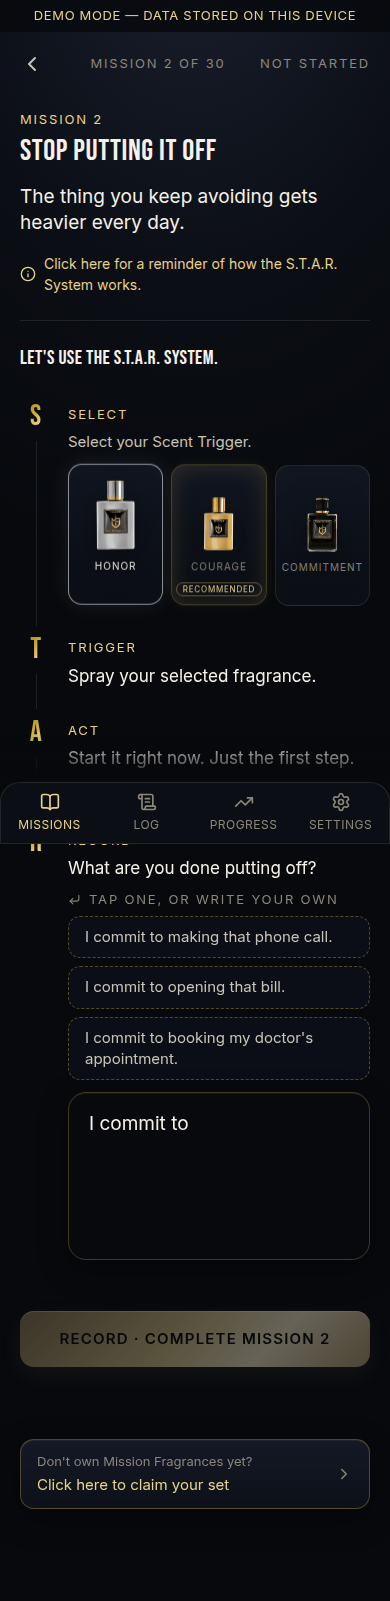
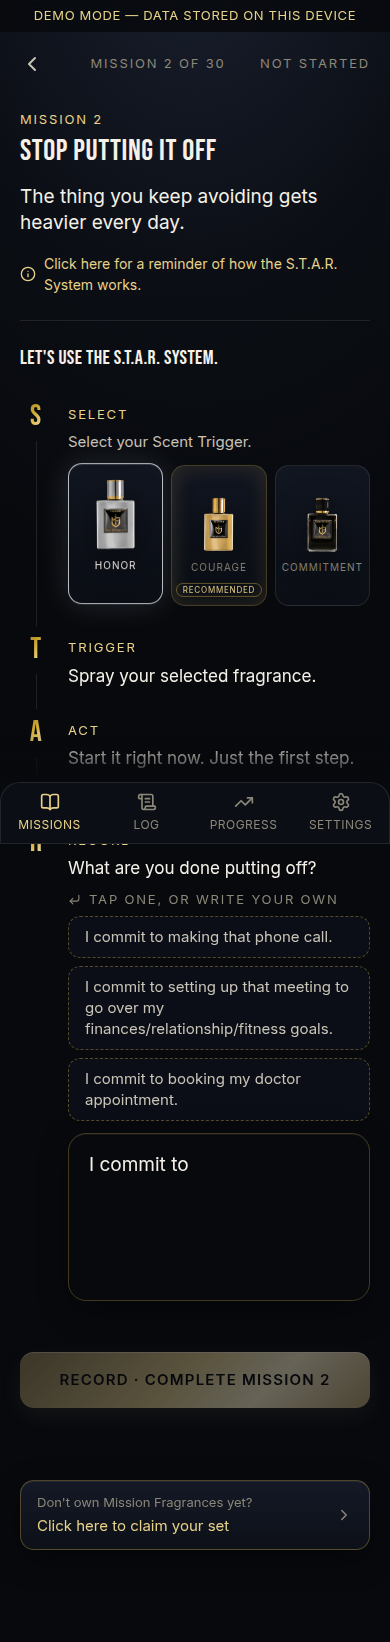
Examples everyone can see himself in; Mission 13 pre-fill plus options
Examples assumed one kind of life: a wife, kids, a living dad, an "our".
They're now written as options he can trim, so every man sees his own
situation in them. "my wife/partner/girlfriend", "my dad/mom", "my
kids/family", "my son/daughter", "my brother/sister/buddy". "my" replaces
"our" wherever a single man could mean it.

Requested edits:
- Mission 2: "doctor appointment", not "doctor's". The bill example is now
  "setting up that meeting to go over my finances/relationship/fitness
  goals".
- Mission 4: wife/partner/girlfriend; "reaching out to thank my old coach";
  mom/sister/aunt.
- Mission 6: "Staying with my dad/mom/uncle/aunt at the hospital."
- Mission 11: wife/partner/girlfriend. Mission 12 and 30: 10:30PM.
- Mission 22: wife/partner/girlfriend.
- Mission 13 opens on the sentence he wrote in onboarding, AND offers
  three options to tap. The options stay up until he edits the sentence.
  (Before, a pre-filled field hid the options.)
- Onboarding: the Trigger step drops "This is how you build the trigger."

The same sweep covered the rest (Missions 3, 7, 15, 17, 18, 20, 21, 24, 26,
28, 29), including Mission 29's action, "send it to one person who'll hold
you to it" instead of "one man".

The writing rules in missions.ts now include inclusivity, and the
walkthrough covers Mission 13's pre-fill and options.

Claude-Session: https://claude.ai/code/session_01WVgj5E7JPb9xgPaaNWkVw6

diff --git a/src/content/missions.ts b/src/content/missions.ts
@@ -33,6 +33,11 @@ import type { Trigger } from "@/lib/data/types";
  * - World actions are commitments: the field opens on "I commit to ". On-
  *   screen actions (finish a sentence, remember something) ask plainly.
  * - Readers are men in their 40s and 50s. 90% don't own a business.
+ * - Everyone should see himself in the examples. Married or not, kids or
+ *   not, parents living or not. Write the relationship as options he can
+ *   trim: "my wife/partner/girlfriend", "my dad/mom", "my kids/family".
+ *   Say "my", not "our", unless only a couple could mean it.
+ *   Times are "10:30PM", not "10:30".
  * - Recommended values rotate. Never the same one twice in a row.
  * - 15–20 cover relationships, health, work, money, home and service; 21
  *   picks one; 22 acts on it; 27 sharpens the promise from 12.
@@ -136,8 +141,8 @@ export const MISSIONS: MissionDef[] = [
     inputPrefix: COMMIT,
     examples: [
       "I commit to making that phone call.",
-      "I commit to opening that bill.",
-      "I commit to booking my doctor's appointment.",
+      "I commit to setting up that meeting to go over my finances/relationship/fitness goals.",
+      "I commit to booking my doctor appointment.",
     ],
     youtubeId: null,
   },
@@ -152,8 +157,8 @@ export const MISSIONS: MissionDef[] = [
     inputPrefix: COMMIT,
     examples: [
       "I commit to being home for dinner tonight.",
-      "I commit to calling my dad back tonight.",
-      "I commit to making my kid's game Saturday.",
+      "I commit to calling my dad/mom back tonight.",
+      "I commit to making my kid's/nephew's game Saturday.",
     ],
     youtubeId: null,
   },
@@ -167,9 +172,9 @@ export const MISSIONS: MissionDef[] = [
     inputLabel: "Who are you going to tell?",
     inputPrefix: COMMIT,
     examples: [
-      "I commit to thanking my wife for all she carries.",
-      "I commit to thanking my old coach.",
-      "I commit to telling my mom what she taught me.",
+      "I commit to thanking my wife/partner/girlfriend for all she carries.",
+      "I commit to reaching out to thank my old coach.",
+      "I commit to telling my mom/sister/aunt what she taught me.",
     ],
     youtubeId: null,
   },
@@ -200,7 +205,7 @@ export const MISSIONS: MissionDef[] = [
     examples: [
       "Working two jobs to keep the house.",
       "Telling the truth when it cost me.",
-      "Staying with my dad in the hospital.",
+      "Staying with my dad/mom/uncle/aunt at the hospital.",
     ],
     youtubeId: null,
   },
@@ -213,8 +218,8 @@ export const MISSIONS: MissionDef[] = [
     recommendedTrigger: "commitment",
     inputLabel: "Where did you put them?",
     examples: [
-      "On my dresser, next to my granddad's watch.",
-      "On my desk, by a photo of my kids.",
+      "On my dresser, next to my dad's/granddad's watch.",
+      "On my desk, by a photo of my kids/family.",
       "On the shelf in my bedroom.",
     ],
     photoEncouraged: true,
@@ -274,8 +279,8 @@ export const MISSIONS: MissionDef[] = [
     recommendedTrigger: "honor",
     inputLabel: "The line I won't cross is…",
     examples: [
-      "Lying to my wife.",
-      "Breaking a promise to my kids.",
+      "Lying to my wife/partner/girlfriend.",
+      "Breaking a promise to my kids/family.",
       "Taking what isn't mine.",
     ],
     youtubeId: null,
@@ -291,7 +296,7 @@ export const MISSIONS: MissionDef[] = [
     examples: [
       "Home for dinner, phone away, every weeknight.",
       "No drinking on weeknights.",
-      "In bed by 10:30.",
+      "In bed by 10:30PM.",
     ],
     youtubeId: null,
   },
@@ -303,6 +308,11 @@ export const MISSIONS: MissionDef[] = [
     action: "Read it. Fix what isn't true.",
     recommendedTrigger: "courage",
     inputLabel: "I am becoming a man who…",
+    examples: [
+      "Keeps his word, even when it costs him.",
+      "Shows up for the people who count on him.",
+      "Does the hard thing first.",
+    ],
     prefillIdentity: true,
     youtubeId: null,
   },
@@ -333,9 +343,9 @@ export const MISSIONS: MissionDef[] = [
     inputLabel: "Who, and when?",
     inputPrefix: COMMIT,
     examples: [
-      "I commit to breakfast with my daughter Saturday.",
-      "I commit to a drive with my son Sunday.",
-      "I commit to date night Friday.",
+      "I commit to breakfast with my son/daughter Saturday.",
+      "I commit to a drive with my dad/brother/buddy Sunday.",
+      "I commit to date night with my wife/partner/girlfriend Friday.",
     ],
     youtubeId: "NGi4l1rNc50",
   },
@@ -365,7 +375,7 @@ export const MISSIONS: MissionDef[] = [
     inputLabel: "What are you going to start?",
     inputPrefix: COMMIT,
     examples: [
-      "I commit to starting our will.",
+      "I commit to starting my will.",
       "I commit to calling about the roof.",
       "I commit to cleaning out one garage shelf.",
     ],
@@ -382,8 +392,8 @@ export const MISSIONS: MissionDef[] = [
     inputPrefix: COMMIT,
     examples: [
       "I commit to opening my credit card statement.",
-      "I commit to checking our retirement account.",
-      "I commit to writing down what we owe.",
+      "I commit to checking my retirement account.",
+      "I commit to writing down everything I owe.",
     ],
     youtubeId: "GqQmxeLr6GI",
   },
@@ -415,7 +425,7 @@ export const MISSIONS: MissionDef[] = [
     examples: [
       "I commit to sending my neighbor my mechanic's number.",
       "I commit to helping my buddy move Saturday.",
-      "I commit to calling my nephew about that job.",
+      "I commit to calling my nephew/niece about that job.",
     ],
     youtubeId: "oU7fHhMoXoY",
   },
@@ -430,8 +440,8 @@ export const MISSIONS: MissionDef[] = [
     inputPrefix: COMMIT,
     examples: [
       "I commit to my health.",
-      "I commit to my marriage.",
-      "I commit to our money.",
+      "I commit to my marriage/relationship.",
+      "I commit to my money.",
     ],
     youtubeId: null,
   },
@@ -446,8 +456,8 @@ export const MISSIONS: MissionDef[] = [
     inputPrefix: COMMIT,
     examples: [
       "I commit to 10 push-ups now.",
-      "I commit to texting my wife something sweet.",
-      "I commit to listing every subscription we pay for.",
+      "I commit to texting my wife/partner/girlfriend something sweet.",
+      "I commit to listing every subscription I pay for.",
     ],
     youtubeId: "FaJhvhVPb9c",
   },
@@ -477,7 +487,7 @@ export const MISSIONS: MissionDef[] = [
     inputLabel: "What are you saying no to?",
     inputPrefix: COMMIT,
     examples: [
-      "I commit to skipping golf for my daughter's game.",
+      "I commit to skipping golf for my kid's game.",
       "I commit to turning down the extra shift.",
       "I commit to turning off the TV and going to bed.",
     ],
@@ -509,8 +519,8 @@ export const MISSIONS: MissionDef[] = [
     inputLabel: "What are you going to do?",
     inputPrefix: COMMIT,
     examples: [
-      "I commit to telling my son I was wrong.",
-      "I commit to paying my brother back this month.",
+      "I commit to telling my son/daughter I was wrong.",
+      "I commit to paying my brother/sister/buddy back this month.",
       "I commit to owning my mistake at work.",
     ],
     youtubeId: "ZMBy99RiuvM",
@@ -541,7 +551,7 @@ export const MISSIONS: MissionDef[] = [
     inputLabel: "Which one are you going to repeat?",
     inputPrefix: COMMIT,
     examples: [
-      "I commit to calling my dad again.",
+      "I commit to calling my dad/mom again.",
       "I commit to keeping the dinner promise all week.",
       "I commit to the next hard conversation.",
     ],
@@ -552,13 +562,13 @@ export const MISSIONS: MissionDef[] = [
     slug: "m29",
     title: "Share Your Personal Code",
     statement: "A code nobody sees is easy to break.",
-    action: "Send it to one man who'll hold you to it.",
+    action: "Send it to one person who'll hold you to it.",
     recommendedTrigger: "honor",
     inputLabel: "Who are you sending it to?",
     inputPrefix: COMMIT,
     examples: [
-      "I commit to sending it to my brother.",
-      "I commit to reading it to my wife.",
+      "I commit to sending it to my brother/sister.",
+      "I commit to reading it to my wife/partner/girlfriend.",
       "I commit to sending it to my best friend.",
     ],
     showPersonalCode: true,
@@ -574,7 +584,7 @@ export const MISSIONS: MissionDef[] = [
     inputLabel: "What's next?",
     examples: [
       "Courage: one hard conversation a week.",
-      "Commitment: in bed by 10:30 for 30 days.",
+      "Commitment: in bed by 10:30PM for 30 days.",
       "Honor: one call a week to someone who matters.",
     ],
     youtubeId: null,

diff --git a/src/app/(app)/missions/[number]/page.tsx b/src/app/(app)/missions/[number]/page.tsx
@@ -63,6 +63,9 @@ function MissionDetailInner({
   const [pending, setPending] = useState(false);
   const [justLogged, setJustLogged] = useState(false);
   const [starOpen, setStarOpen] = useState(false);
+  // What the field opened with. Until he changes it, the examples stay up —
+  // Mission 13 opens on his own sentence AND offers options.
+  const [seed, setSeed] = useState<string | null>(null);
   const submitting = useRef(false);
   const seeded = useRef(false);
   const openedAt = useRef(Date.now());
@@ -87,12 +90,15 @@ function MissionDetailInner({
     if (seeded.current || !def || !profile) return;
     seeded.current = true;
     /* eslint-disable react-hooks/set-state-in-effect */
-    if (def.prefillIdentity && profile.identity_statement) {
-      setText(profile.identity_statement);
-    } else if (def.examples?.length === 1) {
-      setText(def.examples[0]);
-    } else if (def.inputPrefix) {
-      setText(def.inputPrefix);
+    const initial =
+      def.prefillIdentity && profile.identity_statement
+        ? profile.identity_statement
+        : def.examples?.length === 1
+          ? def.examples[0]
+          : (def.inputPrefix ?? null);
+    if (initial !== null) {
+      setText(initial);
+      setSeed(initial);
     }
     /* eslint-enable react-hooks/set-state-in-effect */
   }, [def, profile]);
@@ -120,7 +126,7 @@ function MissionDetailInner({
   const hasAnswer = text.trim().length > 0 && text.trim() !== opener;
   const showExamples =
     (def.examples?.length ?? 0) > 1 &&
-    (text.trim() === "" || text.trim() === opener);
+    (text.trim() === "" || text.trim() === opener || text === seed);
 
   async function logIt() {
     const entry = text.trim();

diff --git a/src/content/triggers.ts b/src/content/triggers.ts
@@ -46,7 +46,7 @@ export const STAR_STEPS = [
   {
     letter: "T",
     name: "Trigger",
-    text: "Spray the fragrance and breathe it in. This is how you build the trigger.",
+    text: "Spray the fragrance and breathe it in.",
   },
   {
     letter: "A",

diff --git a/docs/HANDOFF.md b/docs/HANDOFF.md
@@ -19,7 +19,7 @@ states. The Vivid Vision is archived; its replacement is the compiled, printable
 
 - Owner: Antonio Centeno (product decisions). Team contact: Yuri.
 - Repo: https://github.com/aiexecutionaccelerator/mfapp (branch `main`)
-- Version: 2.9.6 (every Mission is the S.T.A.R. System)
+- Version: 2.10.0 (every Mission is the S.T.A.R. System)
 
 ## Architecture facts that matter
 
